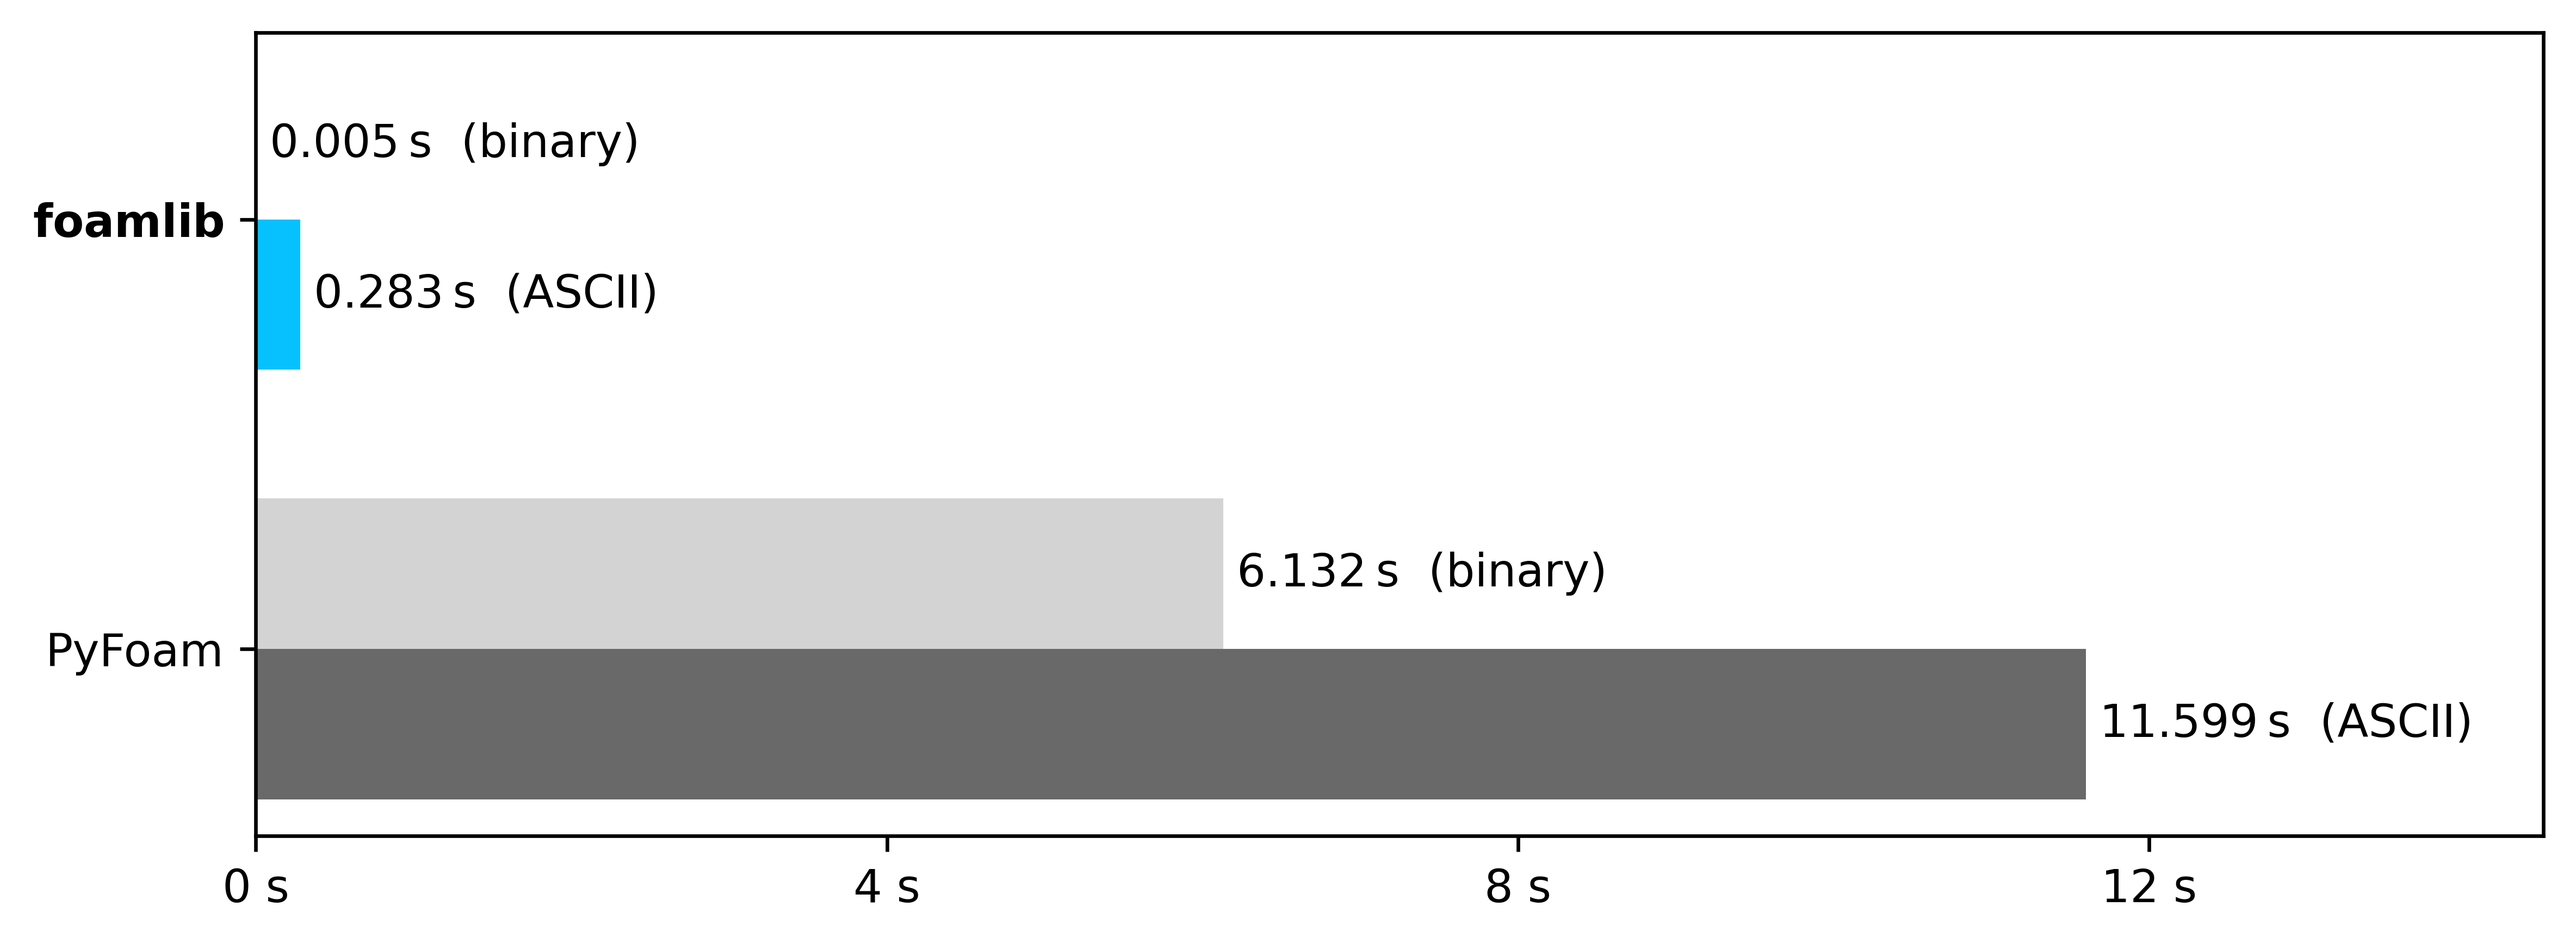
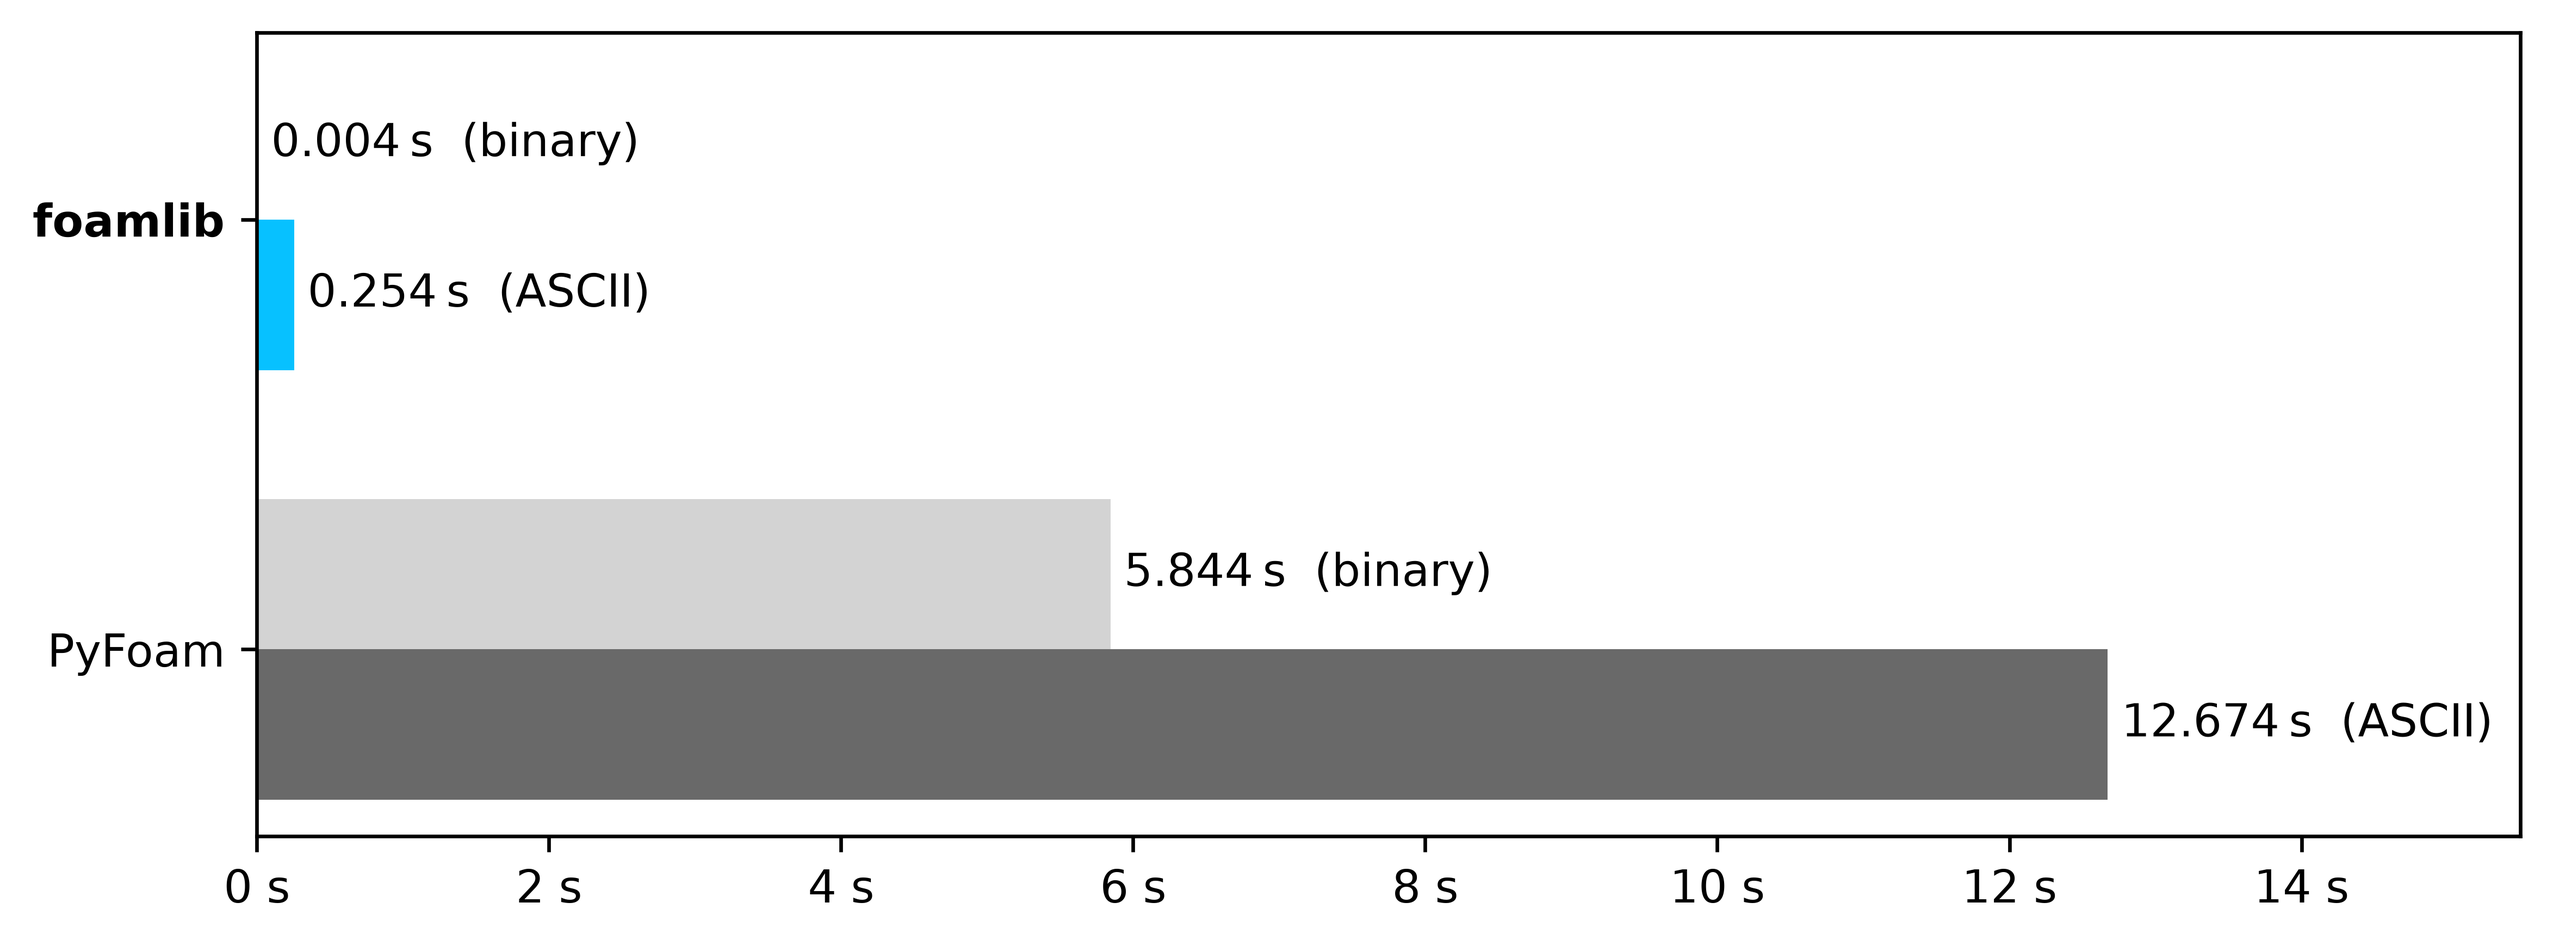
Update benchmark results

diff --git a/README.md b/README.md
@@ -284,4 +284,4 @@ If you use **foamlib** in your research, please remember to cite our paper:
 
 ## 👟 Footnotes
 
-<a id="benchmark">[1]</a> foamlib 1.5.2 vs. PyFoam 2023.7 (Python 3.11.13) on an M3 MacBook Air. [Benchmark script](https://github.com/gerlero/foamlib/blob/main/benchmark/benchmark.py).
+<a id="benchmark">[1]</a> foamlib 1.7.3 vs. PyFoam 2026.6 (Python 3.14.6) on an M3 MacBook Air. [Benchmark script](https://github.com/gerlero/foamlib/blob/main/benchmark/benchmark.py).
